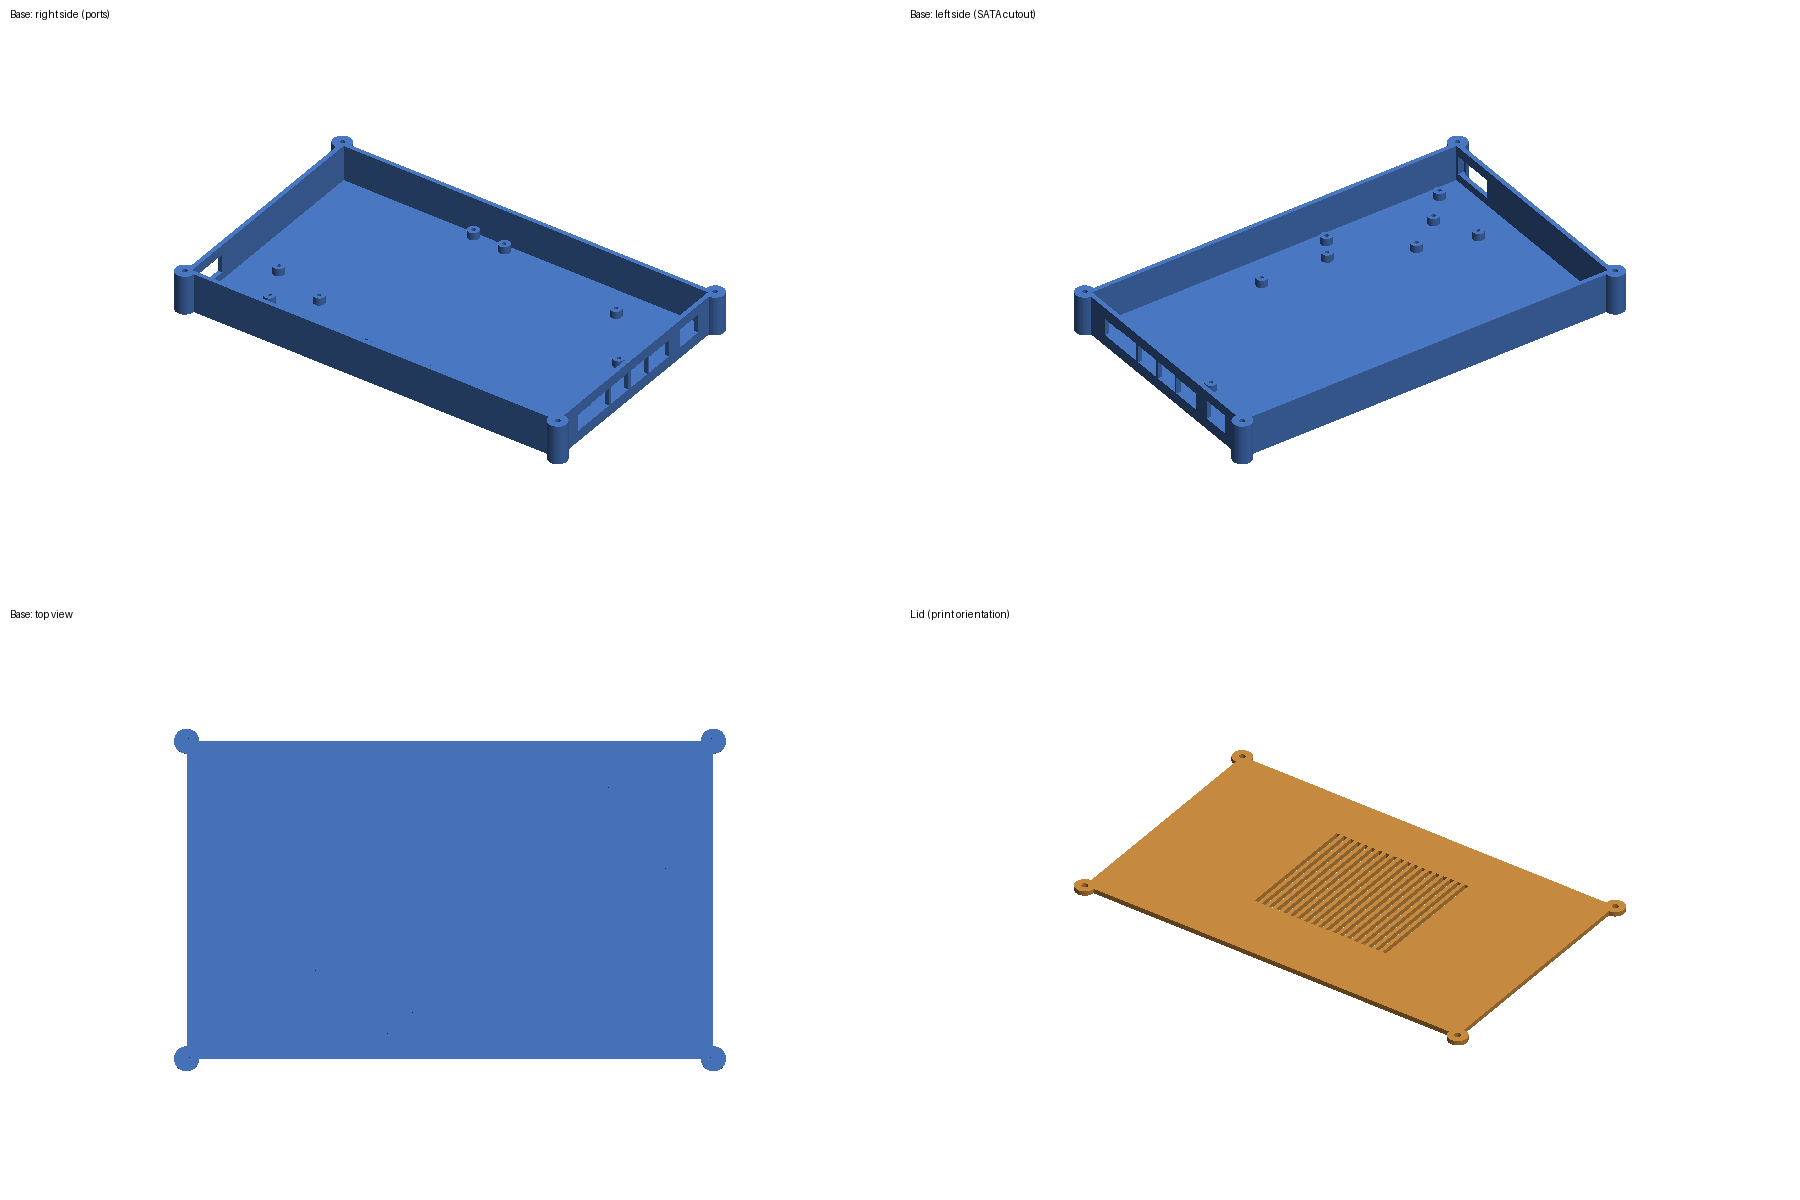
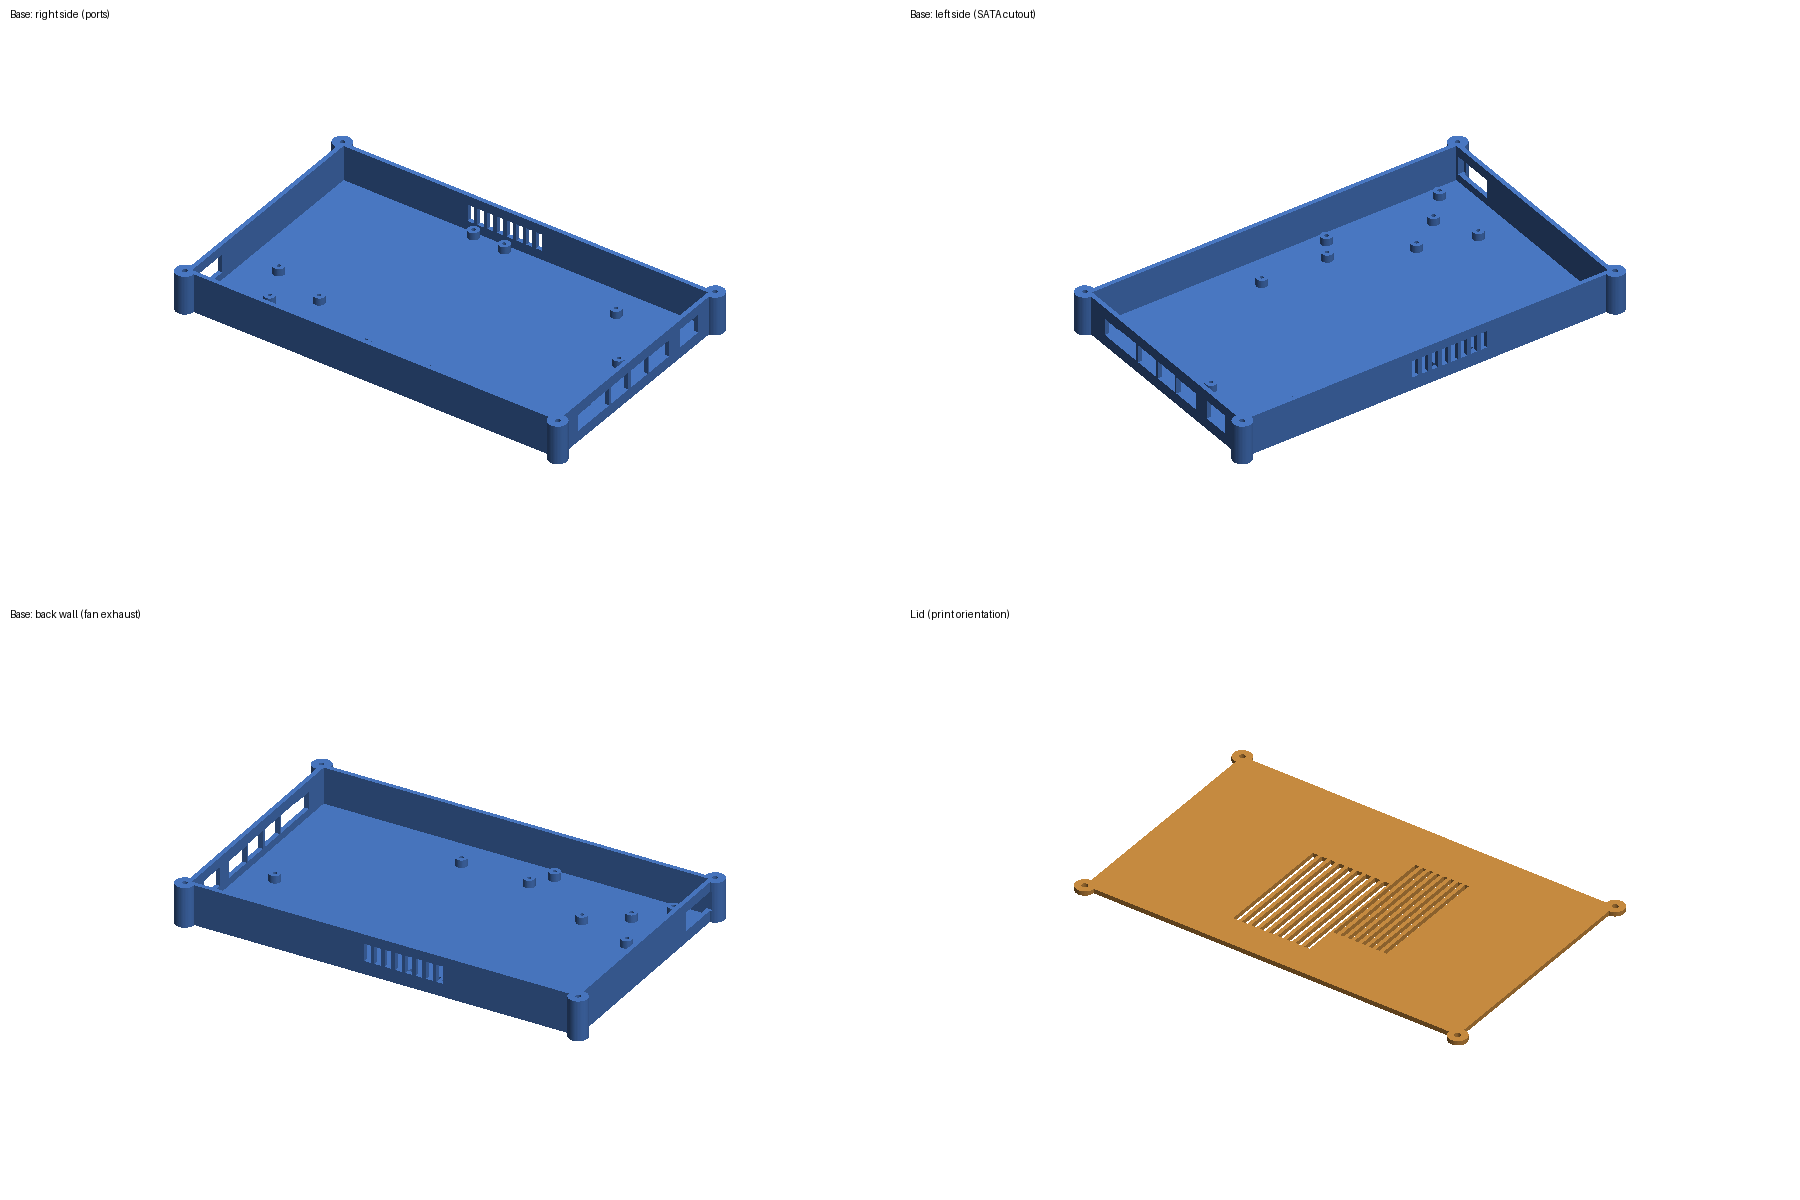
Add fan exhaust slots in back wall and fan intake vents in lid
Claude-Session: https://claude.ai/code/session_01ATfCQK4oZCKBebaqGdUJZt

diff --git a/make_case.py b/make_case.py
@@ -53,8 +53,17 @@ LEFT_PORTS_PX = [
     ("SATA/HDD connector", 690, 790, 8.0),
 ]
 
-# Vent area above CPU/heatsink (x0, y0, x1, y1) in photo pixels
-VENT_AREA_PX = (340, 380, 700, 690)
+# Fan exhaust: the blower sits at the back-left over the heat shield and blows
+# towards the back edge (top of the photo). (name, x_left_px, x_right_px, height_mm)
+BACK_VENTS_PX = [
+    ("fan exhaust", 345, 550, 9.0),
+]
+
+# Lid vents: (x0, y0, x1, y1, slot_w_mm, pitch_mm) in photo pixels
+VENT_AREAS_PX = [
+    (340, 300, 548, 600, 3.0, 5.0),   # fan intake (blower draws air from the lid)
+    (548, 380, 700, 690, 2.0, 4.0),   # heatsink / heat-pipe area
+]
 
 
 BUILD_VOLUME = (256, 256, 256)   # Elegoo Centauri Carbon 2 (mm); edit for other printers
@@ -150,6 +159,16 @@ def main():
         cut = box(ix1 - 1, y_lo, z_pcb_bot, ox1 + 1, y_hi, z_pcb_top + hh + m)
         body = body.difference(cut, engine="manifold")
 
+    # back wall exhaust slots (fan blows out towards the screen hinge)
+    for name, xa, xb, hh in BACK_VENTS_PX:
+        slot_w, pitch = 3.5, 5.5
+        x0v, x1v = px(xa, 0)[0], px(xb, 0)[0]
+        x = x0v
+        while x + slot_w <= x1v:
+            cut = box(x, iy1 - 1, z_pcb_bot + 1.0, x + slot_w, oy1 + 1, z_pcb_top + hh)
+            body = body.difference(cut, engine="manifold")
+            x += pitch
+
     # left wall cut-outs (SATA connector)
     for name, ya, yb, hh in LEFT_PORTS_PX:
         y_hi = px(0, ya)[1] + m
@@ -172,14 +191,14 @@ def main():
         lid = lid.difference(hole, engine="manifold")
 
     if not a.no_vents:
-        vx0, vy0 = px(VENT_AREA_PX[0], VENT_AREA_PX[3])
-        vx1, vy1 = px(VENT_AREA_PX[2], VENT_AREA_PX[1])
-        slot_w, pitch = 2.0, 4.0
-        x = vx0
-        while x + slot_w <= vx1:
-            lid = lid.difference(box(x, vy0, -1, x + slot_w, vy1, a.lid + lip_h + 1),
-                                 engine="manifold")
-            x += pitch
+        for ax0, ay0, ax1, ay1, slot_w, pitch in VENT_AREAS_PX:
+            vx0, vy0 = px(ax0, ay1)
+            vx1, vy1 = px(ax1, ay0)
+            x = vx0
+            while x + slot_w <= vx1:
+                lid = lid.difference(box(x, vy0, -1, x + slot_w, vy1, a.lid + lip_h + 1),
+                                     engine="manifold")
+                x += pitch
 
     # print orientation: lid upside down (flat face on the bed)
     lid.apply_transform(transformations.rotation_matrix(np.pi, [1, 0, 0]))

diff --git a/render_preview.py b/render_preview.py
@@ -37,7 +37,7 @@ if __name__=="__main__":
     b=trimesh.load("out/case_base.stl"); l=trimesh.load("out/case_lid.stl")
     tiles=[(render(b,35,-35),"Base: right side (ports)"),
            (render(b,35,215,base=(80,130,210)),"Base: left side (SATA cutout)"),
-           (render(b,89.9,0),"Base: top view"),
+           (render(b,30,150),"Base: back wall (fan exhaust)"),
            (render(l,35,-35,base=(215,150,70)),"Lid (print orientation)")]
     W,H=tiles[0][0].size; sheet=Image.new("RGB",(W*2,H*2+0),"white"); d=ImageDraw.Draw(sheet)
     for i,(im,t) in enumerate(tiles):
